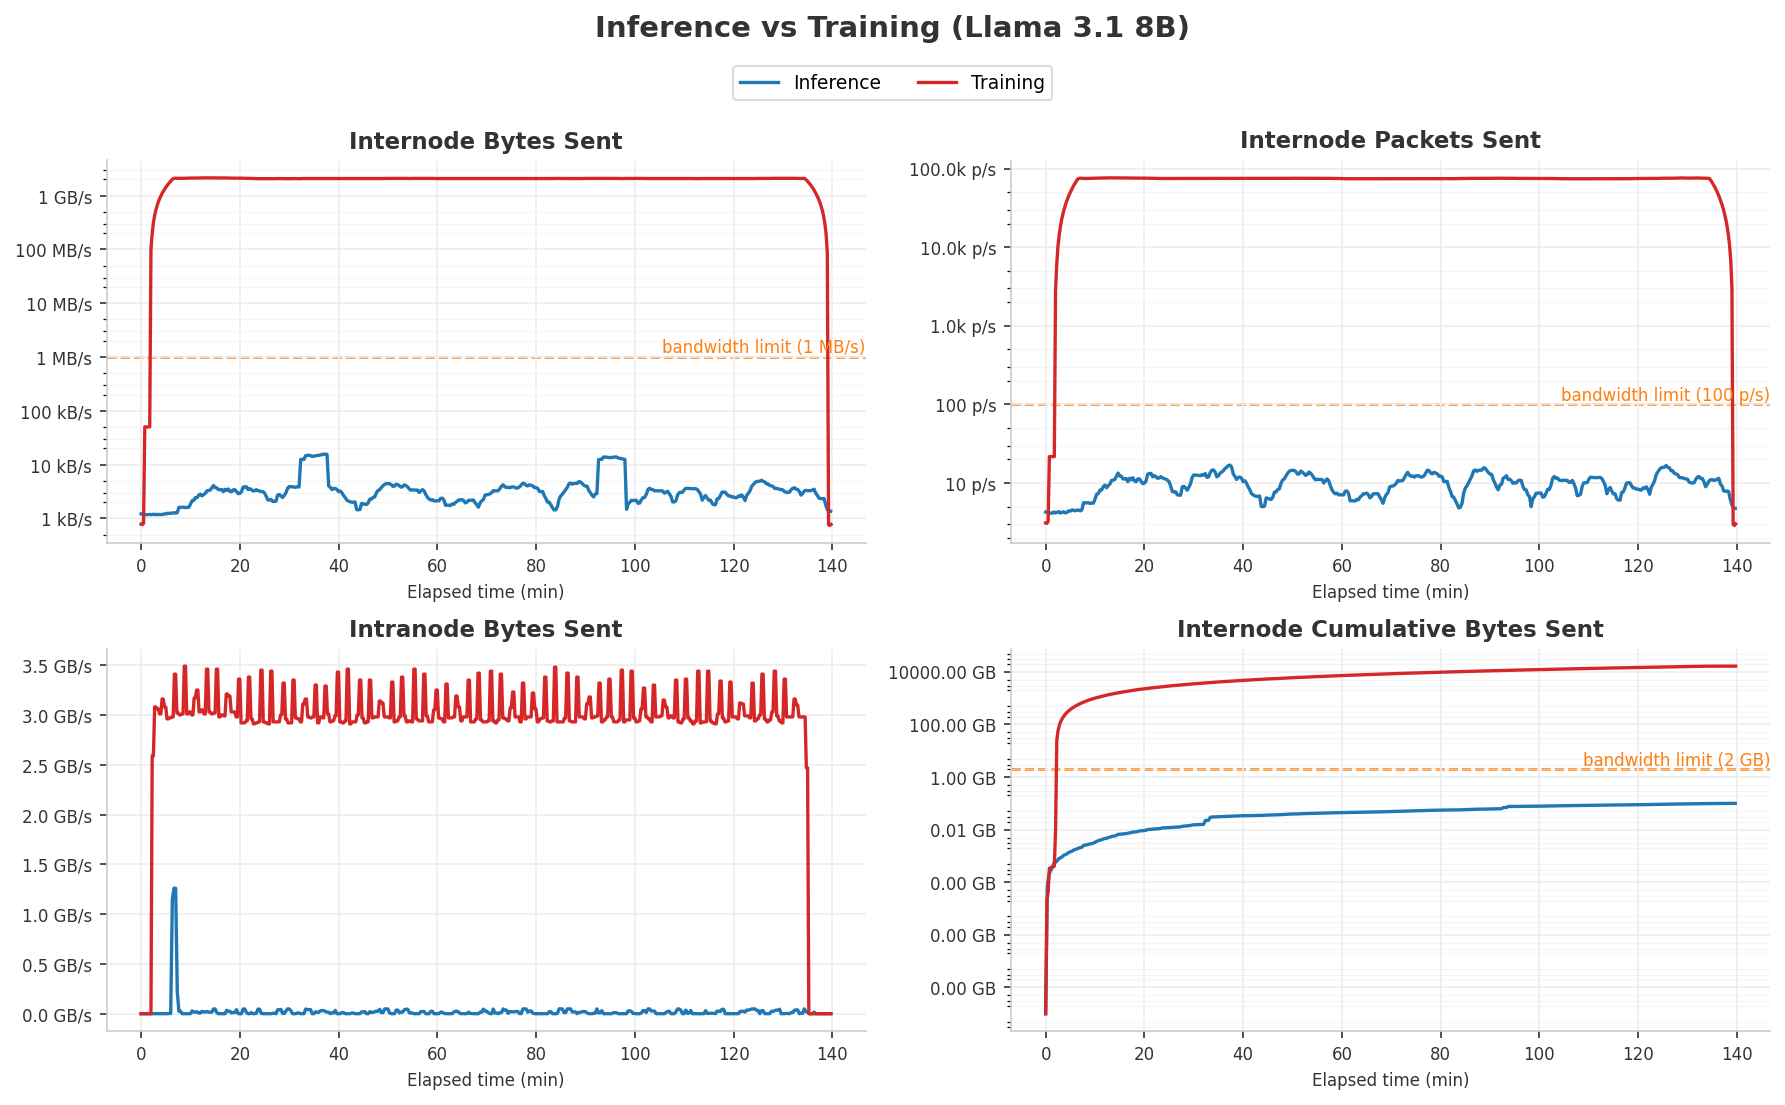
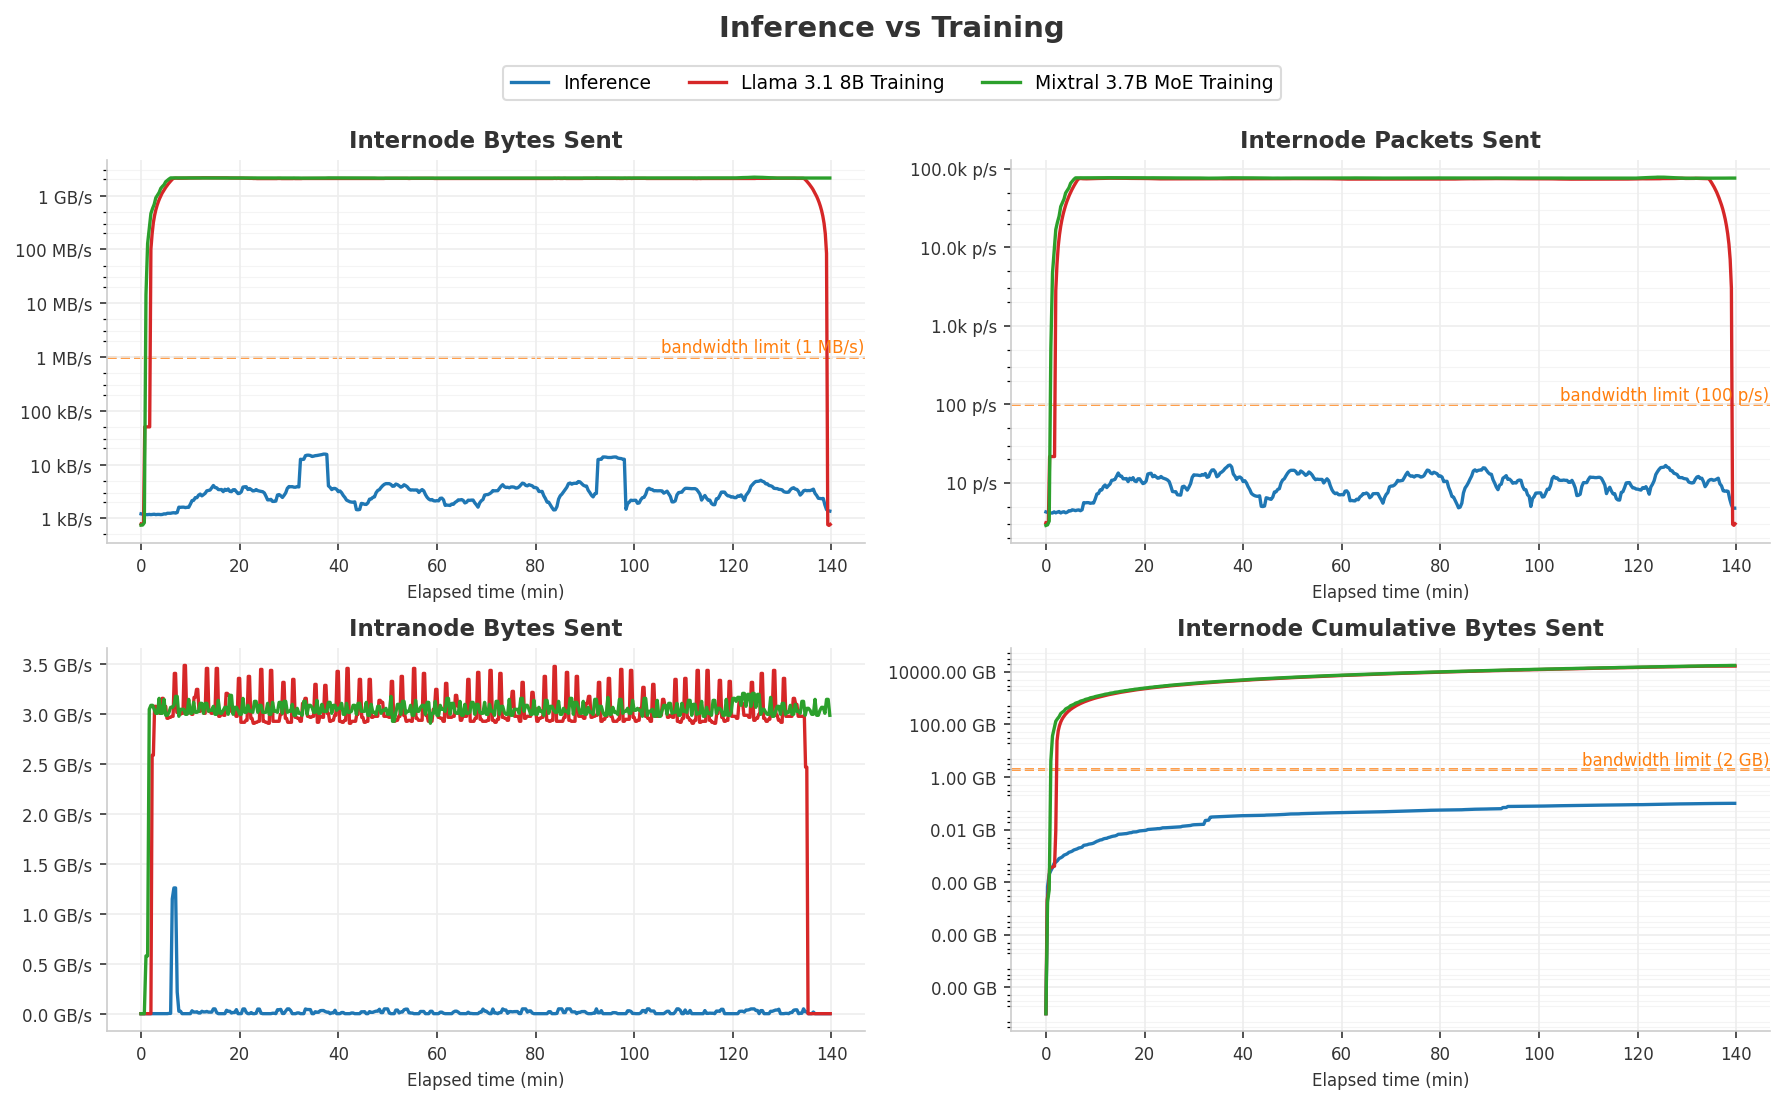
dashboard: inference vs dense vs moe

diff --git a/scripts/analysis/plot_dashboard.py b/scripts/analysis/plot_dashboard.py
@@ -227,7 +227,7 @@ def plot_dataset(folder: Path, title: str) -> None:
 
 DATASETS = [
     (RESULTS / "inference", "Inference — Network & PCIe Dashboard"),
-    (RESULTS / "distributed inference",
+    (RESULTS / "distributed inference" / "inference",
      "Distributed Inference — Network & PCIe Dashboard"),
 ]
 
@@ -278,10 +278,19 @@ def load_and_aggregate(
     return t, v
 
 
-def plot_comparison(inf_folder: Path, train_folder: Path, output_path: Path,
-                    title: str = "Inference vs Training (Llama 3.1 8B)") -> None:
-    INF_COLOR = "#1f77b4"   # blue  — Distributed Inference
-    TRAIN_COLOR = "#d62728"  # red   — Training
+def plot_comparison(
+    inf_folder: Path,
+    train_runs: list[tuple[Path, str, str]],
+    output_path: Path,
+    title: str = "Inference vs Training",
+) -> None:
+    """Overlay inference against one or more training runs on a 4-panel dashboard.
+
+    `train_runs` is a list of `(folder, label, color)` tuples. Pass a single
+    entry for the original two-curve comparison or multiple entries to overlay
+    several training workloads in one figure.
+    """
+    INF_COLOR = "#1f77b4"   # blue — Distributed Inference
     THRESH_COLOR = "#ff7f0e"  # orange
 
     # Panels: (pattern, title, unit_type, threshold_value, log_scale, differentiate, use_sum, force_unit)
@@ -293,11 +302,12 @@ def plot_comparison(inf_folder: Path, train_folder: Path, output_path: Path,
         ("network interface*", "Internode Cumulative Bytes Sent", "bytes",   2e9,   True,  False, True,  "GB"),
     ]
 
-    # Clip both runs to the shorter duration so x-axes align.
+    # Clip all runs to the shortest duration so x-axes align.
     any_pat = panels[0][0]
-    t_inf_end = load_and_aggregate(inf_folder, any_pat)[0][-1]
-    t_train_end = load_and_aggregate(train_folder, any_pat)[0][-1]
-    max_t = min(t_inf_end, t_train_end)
+    ends = [load_and_aggregate(inf_folder, any_pat)[0][-1]]
+    for folder, _, _ in train_runs:
+        ends.append(load_and_aggregate(folder, any_pat)[0][-1])
+    max_t = min(ends)
 
     fig, axes = plt.subplots(2, 2, figsize=(12, 7))
     fig.patch.set_facecolor("white")
@@ -305,25 +315,23 @@ def plot_comparison(inf_folder: Path, train_folder: Path, output_path: Path,
     for ax, (pattern, panel_title, unit_type, threshold_value, log_scale, diff, use_sum, force_unit) in zip(axes.flat, panels):
         t_inf, v_inf = load_and_aggregate(
             inf_folder, pattern, max_minutes=max_t, differentiate=diff, use_sum=use_sum)
-        t_train, v_train = load_and_aggregate(
-            train_folder, pattern, max_minutes=max_t, differentiate=diff, use_sum=use_sum)
 
         ax.set_facecolor("white")
         floor = 1e-3 if unit_type == "packets" else 1.0
         ax.plot(t_inf, np.maximum(v_inf, floor), color=INF_COLOR,
                 linewidth=1.6, label="Inference")
-        ax.plot(t_train, np.maximum(v_train, floor), color=TRAIN_COLOR,
-                linewidth=1.6, label="Training")
+
+        all_vals = [v_inf]
+        for folder, label, color in train_runs:
+            t_train, v_train = load_and_aggregate(
+                folder, pattern, max_minutes=max_t, differentiate=diff, use_sum=use_sum)
+            ax.plot(t_train, np.maximum(v_train, floor), color=color,
+                    linewidth=1.6, label=label)
+            all_vals.append(v_train)
 
         if threshold_value is not None and threshold_value is not False:
-            if threshold_value is True:
-                med_train = float(np.median(v_train[v_train > 0])) if (
-                    v_train > 0).any() else 0
-                thresh = med_train / 100 if med_train > 0 else None
-            else:
-                thresh = float(threshold_value)
-
-            if thresh is not None and thresh > 0:
+            thresh = float(threshold_value)
+            if thresh > 0:
                 if unit_type == "packets":
                     if thresh >= 1e6:
                         thresh_str = f"{_fmt_num(thresh/1e6)}M p/s"
@@ -359,8 +367,8 @@ def plot_comparison(inf_folder: Path, train_folder: Path, output_path: Path,
         if log_scale:
             apply_log_scale(ax)
 
-        all_vals = np.concatenate([v_inf, v_train])
-        y_max = float(all_vals.max()) if len(all_vals) else 1.0
+        concat_vals = np.concatenate(all_vals)
+        y_max = float(concat_vals.max()) if len(concat_vals) else 1.0
         if force_unit == "GB/s":
             ax.yaxis.set_major_formatter(
                 ticker.FuncFormatter(lambda v, _: f"{v/1e9:.2f} GB/s"))
@@ -393,8 +401,8 @@ def plot_comparison(inf_folder: Path, train_folder: Path, output_path: Path,
     )
     fig.tight_layout()
     handles, labels = axes.flat[0].get_legend_handles_labels()
-    fig.legend(handles, labels, loc="upper center", ncol=2, fontsize=9,
-               framealpha=0.7, edgecolor="#cccccc",
+    fig.legend(handles, labels, loc="upper center", ncol=len(handles),
+               fontsize=9, framealpha=0.7, edgecolor="#cccccc",
                bbox_to_anchor=(0.5, 1.0))
     fig.savefig(output_path, dpi=150, bbox_inches="tight", facecolor="white")
     plt.close(fig)
@@ -467,14 +475,21 @@ if __name__ == "__main__":
     for folder, title in DATASETS:
         plot_dataset(folder, title)
 
+    inference_dir = RESULTS / "distributed inference" / "inference"
+    training_runs = [
+        (RESULTS / "baseline", "Llama 3.1 8B Training", "#d62728"),  # red
+        (RESULTS / "moe", "Mixtral 3.7B MoE Training", "#2ca02c"),  # green
+    ]
+
     plot_comparison(
-        RESULTS / "distributed inference",
-        RESULTS / "training",
+        inference_dir,
+        training_runs,
         RESULTS / "comparison.png",
+        title="Inference vs Training",
     )
 
     plot_internode_bytes(
-        RESULTS / "distributed inference",
-        RESULTS / "training",
+        inference_dir,
+        [(folder, label) for folder, label, _ in training_runs],
         RESULTS / "internode_bytes.png",
     )
